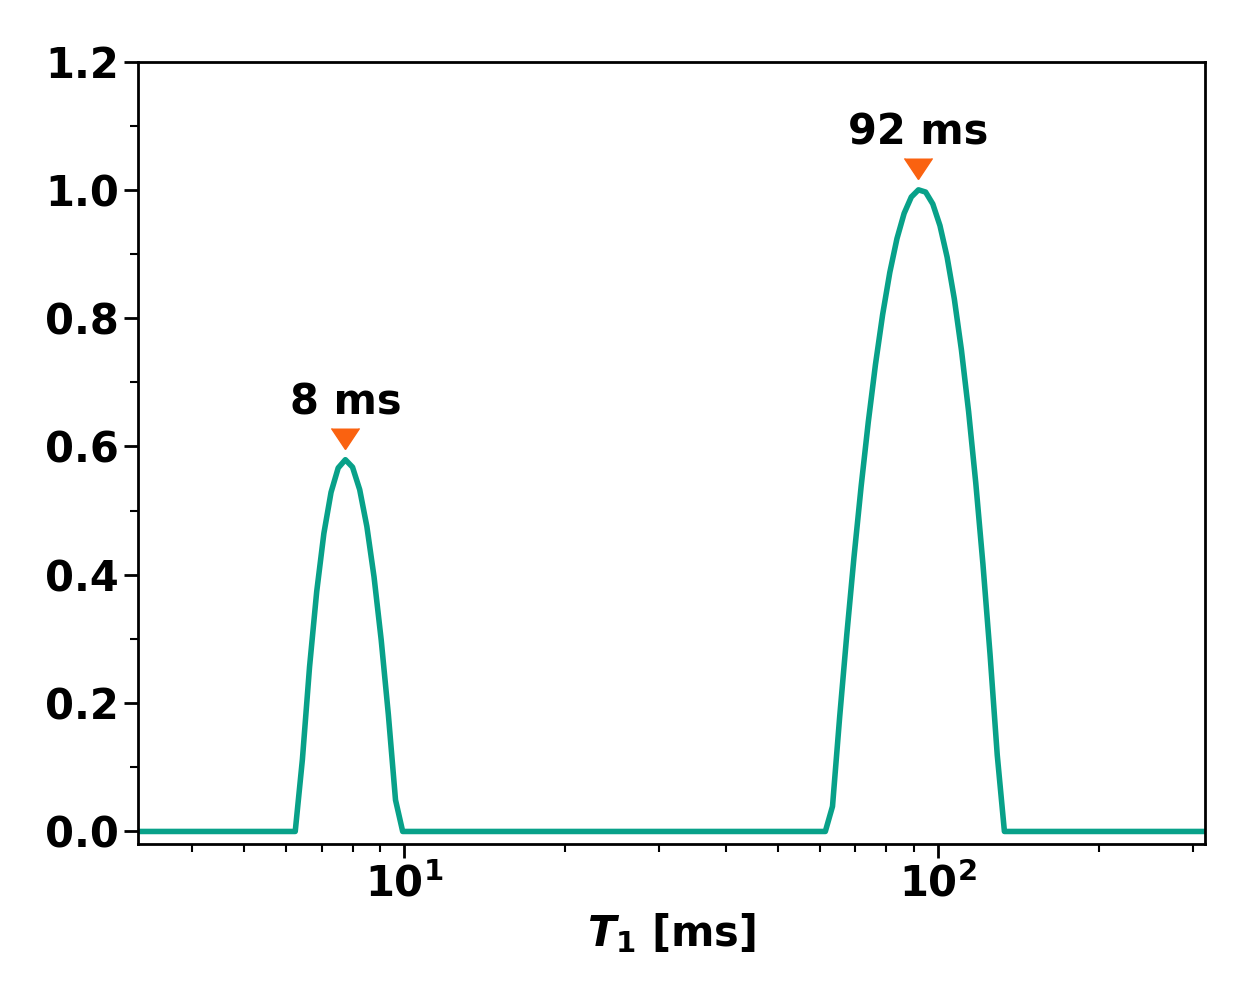
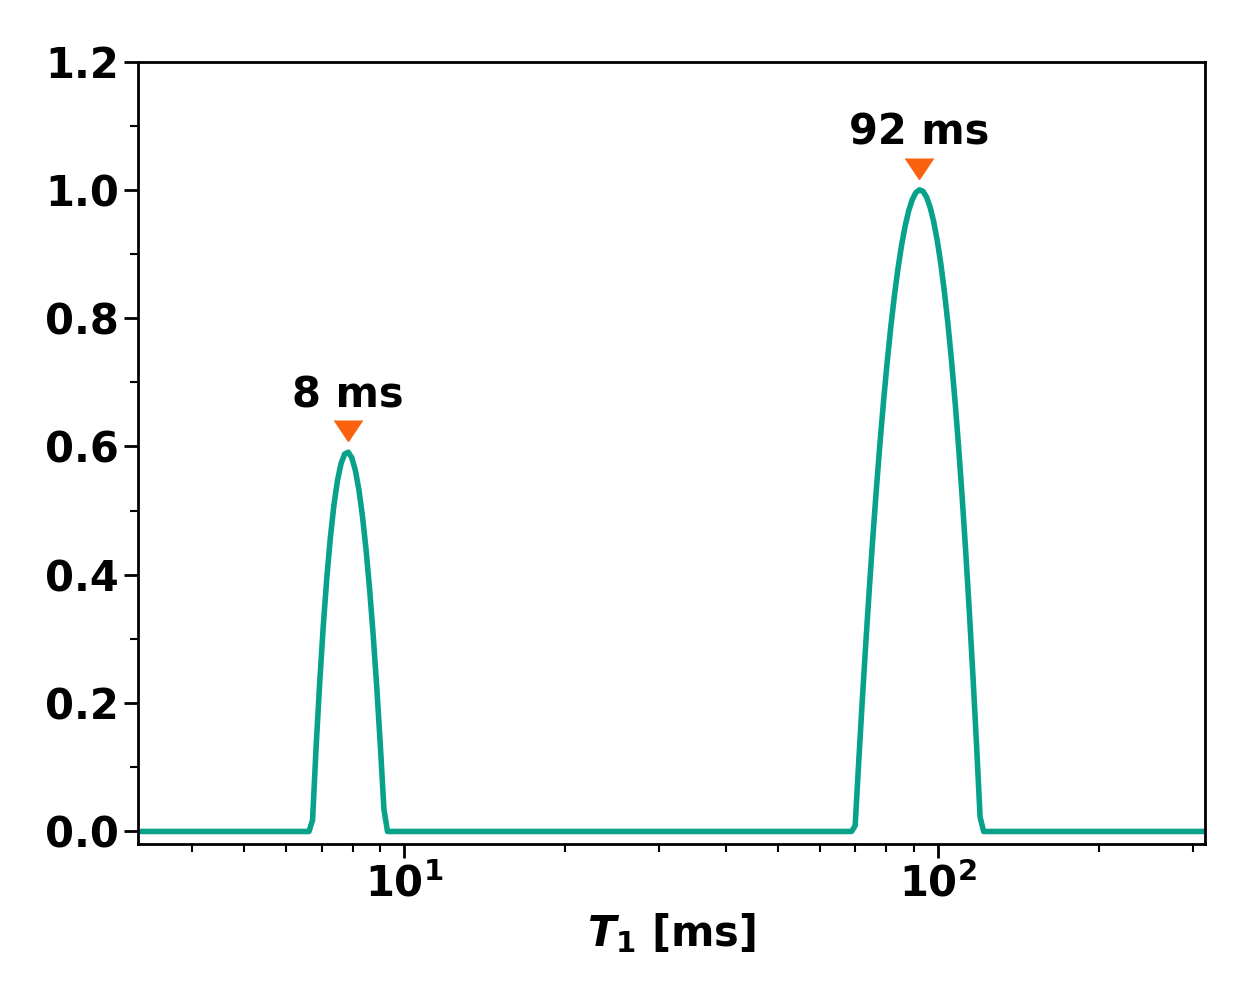
Simul SR y CPMG

diff --git a/signalSimulation/simul_CPMG.py b/signalSimulation/simul_CPMG.py
@@ -1,71 +1,160 @@
-#!/usr/bin/python3.10
+#!/uCPMG/bin/python3.10
 
-import argparse
-import core_IO as IO
-import core_Plot as graph
 import numpy as np
+np.random.seed(1994)
+from scipy.signal import find_peaks
+import matplotlib.pyplot as plt
+from matplotlib.ticker import MultipleLocator
 
-def main():
+plt.rcParams["font.weight"] = "bold"
+plt.rcParams["font.size"] = 30
 
-    path = args.path
-    root = path.split(".txt")[0]
-    alpha = args.alpha
-    T2min, T2max = args.T2Range[0], args.T2Range[1]
+plt.rcParams["axes.labelweight"] = "bold"
+plt.rcParams["axes.linewidth"] = 2
 
-    print('Reading CPMG raw data...')
-    t, SGL, nP, _ = IO.read1Dsgl(path)
-    RDT, att, RG, nS, RD, p90, p180, tEcho, nEcho = IO.read1Dparams(root)
-    S0, T2, K = IO.initKernel1D(nP, t, T2min, T2max)
-    params = (rf'Acquisition: RDT = {RDT} $\mu$s | Atten = {att} dB | '
-              rf'RG = {RG} dB | nS = {nS} | RD = {RD:.2f} s | '
-              rf'p90 = {p90} $\mu$s | p180 = {p180} $\mu$s | '
-              rf'tE = {tEcho:.1f} ms | nE = {nEcho}')
+plt.rcParams['xtick.major.size'] = 10
+plt.rcParams['xtick.major.width'] = 2
+plt.rcParams['xtick.minor.size'] = 6
+plt.rcParams['xtick.minor.width'] = 1.5
 
-    print('Analysing CPMG raw data...')
-    SGL = IO.PhCorr1D(SGL)
-    Z = SGL.real
-    Z = IO.NormRG1D(Z, RG)
+plt.rcParams['ytick.major.size'] = 10
+plt.rcParams['ytick.major.width'] = 2
+plt.rcParams['ytick.minor.size'] = 6
+plt.rcParams['ytick.minor.width'] = 1.5
 
-    print(f'Fitting with exponentials...')
-    Pearson = []
+plt.rcParams["legend.frameon"] = False
+plt.rcParams["legend.fontsize"] = 30
 
-    Mag_1, T2_1, r2 = IO.expFit_1(t, Z)
-    Pearson.append(f'R2 = {r2:.6f}')
-    Pearson.append('')
+plt.rcParams["figure.figsize"] = 12.5, 10
+plt.rcParams["figure.autolayout"] = True
 
-    Mag_2, T2_2, r2 = IO.expFit_2(t, Z)
-    Pearson.append(f'R2 = {r2:.6f}')
-    Pearson.append('')
+plt.rcParams["lines.linewidth"] = 4
 
-    dataFit = np.hstack((np.vstack((Mag_1, T2_1, Mag_2, T2_2)), 
-                         np.array([Pearson]).T))
+# Colores
+Verde = '#08a189' # = 08A189 = 8 161 137    (principal)
+Naranja = '#fa6210' # = FA6210 = 250 98 16    (secundario)
+Azul = '#3498db' # (terciario)
+Morado = '#6a1b9a' # (cuaternario)
+Gris = '#808080' # (alternativo)
+Negro = '#000000' # =  = 0 0 0 (base)
 
-    print(f'Starting NLI: Alpha = {alpha}.')
-    S, iter = IO.NLI_FISTA_1D(K, Z, alpha, S0)
-    if iter < 100000:
-        print('Inversion ready!')
-    else:
-        print('Warning!')
-        print('Maximum number of iterations reached!')
-        print('Try modifying T2Range and/or alpha settings.')
+def NLI_FISTA_1D(K, Z, alpha, S):
+    '''
+    Numeric Laplace inversion, based on FISTA.
+    '''
 
-    print(f'Fitting NLI results in time domain...')
-    MLaplace = IO.fitLapMag_1D(t, T2, S, nP)
+    Z = np.reshape(Z, (len(Z), 1))
+    S = np.reshape(S, (len(S), 1))
 
-    print('Writing CPMG processed data...')
-    IO.writeCPMG(t, Z, MLaplace, T2, S, root)
+    KTK = K.T @ K
+    KTZ = K.T @ Z
+    ZZT = np.trace(Z @ Z.T)
 
-    print('Plotting CPMG processed data...')
-    graph.CPMG(t, Z, T2, S, MLaplace, root, alpha, T2min, T2max, params, 
-               dataFit, tEcho)
+    invL = 1 / (np.trace(KTK) + alpha)
+    factor = 1 - alpha * invL
 
-if __name__ == "__main__":
-    parser = argparse.ArgumentParser()
-    parser.add_argument('-path', type=str, default = 'CPMG.txt', 
-                        help = "Path to the CPMG signal.")
-    parser.add_argument('-alpha', type = float, default = 0.1, 
-                        help = "Tikhonov regularization parameter.")
-    parser.add_argument('-T2Range', nargs = 2, type = float, default = [-1, 4], 
-                        help = "Range to consider for T2 values.")
-    args = parser.parse_args()
-    main()
+    Y = S
+    tstep = 1
+    lastRes = np.inf
+
+    for iter in range(100000):
+        term2 = KTZ - KTK @ Y
+        Snew = factor * Y + invL * term2
+        Snew[Snew<0] = 0
+
+        tnew = 0.5 * (1 + np.sqrt(1 + 4 * tstep**2))
+        tRatio = (tstep - 1) / tnew
+        Y = Snew + tRatio * (Snew - S)
+        tstep = tnew
+        S = Snew
+
+        if iter % 500 == 0:
+            TikhTerm = alpha * np.linalg.norm(S)**2
+            ObjFunc = ZZT - 2 * np.trace(S.T @ KTZ) + np.trace(S.T @ KTK @ S) + TikhTerm
+
+            Res = np.abs(ObjFunc - lastRes) / ObjFunc
+            lastRes = ObjFunc
+            print(f'\t# It = {iter} >>> Residue = {Res:.6f}')
+
+            if Res < 1E-5:
+                break
+
+    return S[:, 0], iter
+
+def fitLapMag_1D(tau2, T2, S):
+    '''
+    Fits decay from T2 distribution.
+    '''
+
+    M = []
+    for i in range(len(tau2)):
+        m = 0
+        for j in range(len(T2)):
+            m += S[j] * np.exp(-tau2[i] / T2[j])
+        M.append(m)
+
+    return M
+
+################################################################################
+
+largo = 20
+tau2 = np.logspace(0, 3, largo) # ms
+nP = len(tau2)
+T2s = np.array([10, 100]) # ms
+T2min, T2max = 0.5, 2.5
+Amps = np.array([0.3, 0.7])
+SGL = Amps[0] * np.exp(-tau2/T2s[0]) + Amps[1] * np.exp(-tau2/T2s[1])
+noise = np.random.normal(0, 0.015, largo)
+SGLnoisy = SGL + noise
+
+nBin = 300
+S0 = np.ones(nBin)
+T2 = np.logspace(T2min, T2max, nBin)
+K = np.zeros((nP, nBin))
+for i in range(nP):
+    K[i, :] = np.exp(-tau2[i] / T2)
+
+alpha = 0.003
+Snoisy, iter = NLI_FISTA_1D(K, SGLnoisy, alpha, S0)
+
+MagLap = fitLapMag_1D(tau2, T2, Snoisy)
+
+# Remove edge effects from NLI on the plots
+Snoisy = Snoisy[4:]
+T2 = T2[4:]
+
+_, axs = plt.subplots()
+
+axs.plot(tau2, SGLnoisy, color=Negro, marker='*', ms=20, ls='', label='Dato')
+axs.plot(tau2, MagLap, color=Azul, ls=':', zorder=-10, label='Ajuste')
+axs.set_xlabel(r'$\tau_2$ [ms]')
+axs.set_ylabel('Señal CPMG')
+axs.legend(loc='upper right')
+
+axs.xaxis.set_major_locator(MultipleLocator(200))
+axs.xaxis.set_minor_locator(MultipleLocator(100))
+axs.yaxis.set_major_locator(MultipleLocator(0.2))
+axs.yaxis.set_minor_locator(MultipleLocator(0.1))
+
+plt.savefig('simul_CPMG_TimeDomain')
+
+Snorm = Snoisy / np.max(Snoisy)
+peaks, _ = find_peaks(Snorm,height=0.025, distance = 5)
+peaksx, peaksy = T2[peaks], Snorm[peaks]
+
+_, axs = plt.subplots()
+
+axs.plot(T2, Snorm, color = Verde)
+for i in range(len(peaksx)):
+    axs.plot(peaksx[i], peaksy[i] + 0.05, lw = 0, marker=11, ms=20, color=Naranja)
+    axs.annotate(f'{peaksx[i]:.0f} ms', xy = (peaksx[i], peaksy[i] + 0.07), 
+                    fontsize=30, ha='center')
+axs.set_xlabel(r'$T_2$ [ms]')
+axs.set_xscale('log')
+axs.set_ylim(-0.02, 1.2)
+axs.set_xlim(10.0**T2min, 10.0**T2max)
+
+axs.yaxis.set_major_locator(MultipleLocator(0.2))
+axs.yaxis.set_minor_locator(MultipleLocator(0.1))
+
+plt.savefig('simul_CPMG_Laplace')

diff --git a/signalSimulation/simul_SR.py b/signalSimulation/simul_SR.py
@@ -1,16 +1,10 @@
 #!/usr/bin/python3.10
 
-import pandas as pd
 import numpy as np
 np.random.seed(1994)
 from scipy.signal import find_peaks
 import matplotlib.pyplot as plt
-from matplotlib.ticker import FormatStrFormatter # Para determinar decimales
-from mpl_toolkits.axes_grid1.inset_locator import inset_axes
-# axs.yaxis.set_major_formatter(FormatStrFormatter('%.2f'))
 from matplotlib.ticker import MultipleLocator
-# ax.xaxis.set_major_locator(MultipleLocator(1))
-# ax.xaxis.set_minor_locator(MultipleLocator(0.5))
 
 plt.rcParams["font.weight"] = "bold"
 plt.rcParams["font.size"] = 30
@@ -113,14 +107,14 @@ SGL = Amps[0] * (1 - np.exp(-tau1/T1s[0])) + Amps[1] * (1 - np.exp(-tau1/T1s[1])
 noise = np.random.normal(0, 0.015, largo)
 SGLnoisy = SGL + noise
 
-nBin = 150
+nBin = 300
 S0 = np.ones(nBin)
 T1 = np.logspace(T1min, T1max, nBin)
 K = np.zeros((nP, nBin))
 for i in range(nP):
     K[i, :] = 1 - np.exp(-tau1[i] / T1)
 
-alpha = 0.01
+alpha = 0.008
 Snoisy, iter = NLI_FISTA_1D(K, SGLnoisy, alpha, S0)
 
 MagLap = fitLapMag_1D(tau1, T1, Snoisy)
